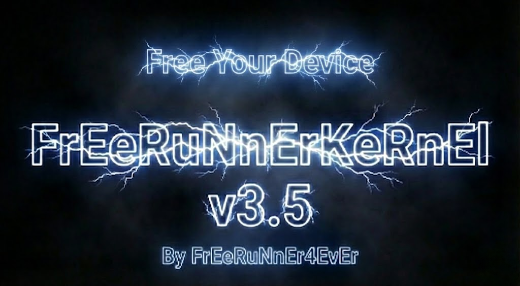
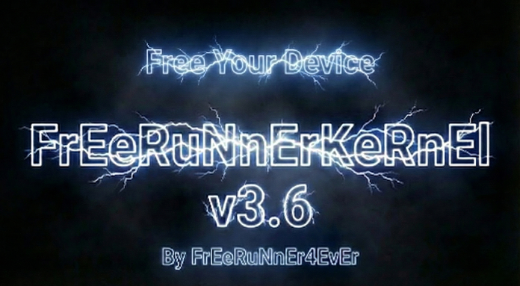
Update to FrEeRuNnErKeRnEl-v3.6

diff --git a/.github/scripts/kernel_release_post.py b/.github/scripts/kernel_release_post.py
@@ -40,7 +40,7 @@ def generate_kernel_post_message():
     msg += f"{RELEASE_BODY}\n\n"
 
     msg += "<b>Note:</b> This kernel will only work on AOSP ONLY NOT ONEUI!\n"
-    msg += "Compatible with Android 15 & 16\n\n"
+    msg += "Compatible with Android 14-16\n\n"
 
     msg += "<b>Thanks:</b>\n"
     msg += "<a href='http://t.me/linux4'>linux4</a> for kernel\n"

diff --git a/changelog.md b/changelog.md
@@ -1,1 +1,1 @@
-- Changelog is HERE: https://telegra.ph/FrEeRuNnErKeRnEl-V35-Changelog-01-05
+- Changelog is HERE: https://telegra.ph/FrEeRuNnErKeRnEl-V36-Changelog-02-10
